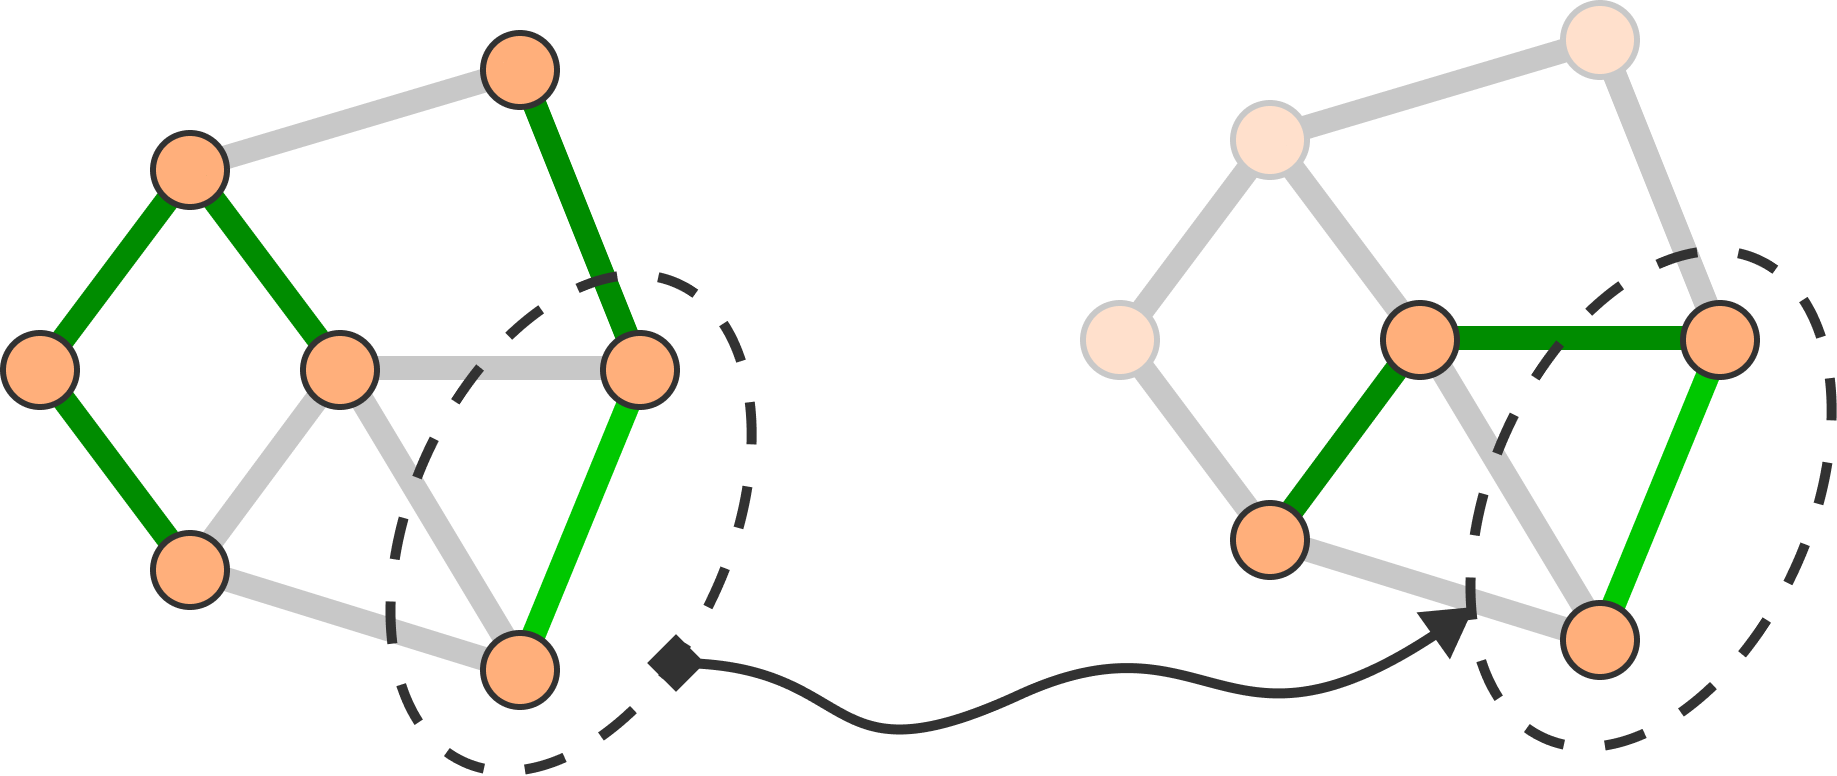
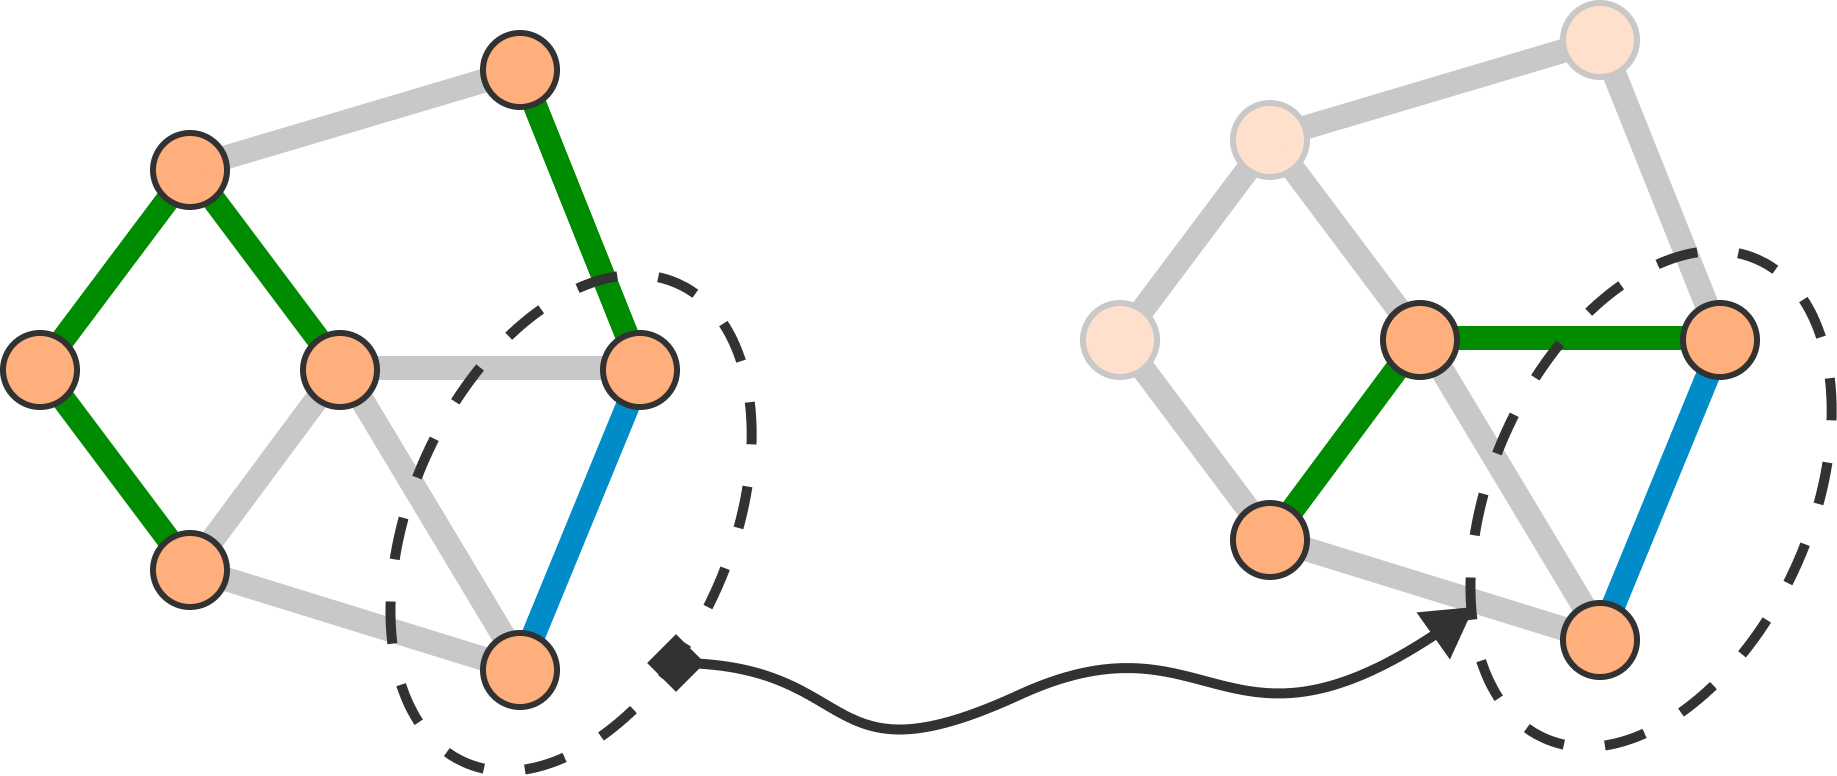
Clarified denser sections; added pigeonhole diagram

Changed region(s): [[0.2793, 0.5258, 0.3723, 0.8351], [0.8688, 0.4639, 0.9309, 0.7732]]

diff --git a/_sass/custom.scss b/_sass/custom.scss
@@ -106,7 +106,7 @@ figure {
         font-size: 12px;
 
         > .centered-figcaption {
-            width: 60%;
+            width: 70%;
             margin: auto;
         }
     }

diff --git a/_posts/2022-03-23-greedoids-p1.md b/_posts/2022-03-23-greedoids-p1.md
@@ -14,14 +14,14 @@ For certain problems, this family of algorithms is highly effective, producing o
 Other times, using a greedy algorithm can return woefully incorrect results.
 So, when can a greedy algorithm be used to find the optimal solution?
 
-Greedoids, a topic in combinatorics, shed light on this question.
+Greedoids, a mathematical construct in combinatorics, help shed light on this question.
 In fact, it's right there in the name!
 *Greed-* as in "greedy algorithm" and *-oid* as in "resembling" or "like".
 Formulated 1981 in by Bernhard Korte and László Lovász, greedoids provide a useful framework for thinking about optimization.
-They make explicit common properties that allow problems to be optimized by the simple "greedy choice" procedure.
+They make explicit the common properties that allow problems to be optimized by the simple "greedy choice" procedure.
 
 In this post, the concept of a greedoid will be introduced and the intuition behind it will be developed.
-To that end, we will work backwards from a greedy algorithm (GA) and build up to an accessible definition of a greedoid.
+To that end, we will work backwards from a greedy algorithm and build up to an accessible definition of a greedoid.
 
 ## Kruskal's algorithm
 Kruskal's algorithm, which solves the minimum spanning tree (MST) problem, makes for a good case study.
@@ -29,7 +29,7 @@ In this problem, each edge in a connected graph is given a weight and we are tas
 A good introduction to MSTs can be found [here](https://courses.grainger.illinois.edu/cs225/fa2021/resources/mst/).
 
 At a high level, Kruskal's algorithm starts with an empty list and repeatedly appends the cheapest edge that doesn't create a cycle.
-This is translated into an (incomplete and rather slow) python implementation below:
+The core of the algorithm is translated into Python pseudo-code below:
 
 ```python
 def kruskal(graph, weight_fn):
@@ -44,24 +44,27 @@ def kruskal(graph, weight_fn):
 What can be drawn from this?
 One observation is that the edges of `graph` make up the search space of our problem; this establishes a domain for our optimization.
 
-A second is that, despite its name, the variable `solution` only makes up an MST (a proper solution for this problem) when it is being returned.
+A second observation is that, despite its name, the variable `solution` only makes up an MST (a proper solution for this problem) when it is being returned.
 At every other point along the way, it is only a "partial solution".
-Further remarks about these partial solutions can be made:
+Additional observations about these partial solutions can be made:
 
-* The empty list is a partial solution.
-* Every partial solution is a [forest](https://en.wikipedia.org/wiki/Tree_(graph_theory)#Forest), guaranteed by the `not contains_cycle` condition.
+* The initial condition `solution = []` means that the empty set is a partial solution.
+* The  `not contains_cycle` condition ensures that every partial solution is in fact a forest.
 
-So, the solution is an MST while the partial solutions are the collection of all sub-forests of `graph`.
+A [forest](https://en.wikipedia.org/wiki/Tree_(graph_theory)#Forest) is a graph that contains no cycles.
+The name comes from the fact that a forest looks like many disconnected trees.
+These separate trees are called the [components](https://en.wikipedia.org/wiki/Component_(graph_theory)) of the forest.
+
+From these observations, we have that the solution is an MST while the partial solutions are the collection of all sub-forests of `graph`.
 In a more general sense, a solution is what the algorithm is optimizing for, while the partial solutions are the snapshots at each iteration.
 
 ## The building blocks
 These ideas of search space, solutions, and partial solutions are the building blocks of a greedoid.
-
 In greedoid theory, the search space is referred to as the *ground set*,
 solutions are called *bases* (as in basis),
 and the collection of both the solutions and partial solutions are known as the *feasible sets*.
 
-Of note is that, for the above observations, there was no particular solution in mind.
+Of note is that the above observations are not specific to just the optimal solution.
 This means that the notion of partial solutions extends to all possible solutions for the problem.
 Indeed, the feasible sets of a greedoid capture all such solutions and partial solutions.
 
@@ -86,13 +89,13 @@ Notice how the feasible sets naturally contain all bases.
 
 Having a ground set and feasible sets alone does not make a problem a greedoid. 
 Indeed, most problems can be be put into the framework of ground set (domain) and feasible sets (constraints).
-But, these building blocks provide a language to describe the properties needed to ensure the optimality of a GA.
+But, these building blocks provide a language to describe the properties needed to ensure the optimality of a greedy algorithm.
 
 ## The defining properties
 Uncovering these requisite properties is no small feat.
 One has to:
 
-* Identify properties that capture the features a GA exploits.
+* Identify properties that capture the features a greedy algorithm exploits.
 * Determine if these properties generalize well.
 * Ensure that these properties can be formalized (in a manageable way), so proofs and assurances can be made.
 
@@ -101,12 +104,11 @@ They noticed two properties, *accessibility* and *exchangeability*, that effecti
 
 ### Accessible set systems
 Consider the following procedure in the context of the MST problem:
-<!-- More here -->
 
 1. Hand pick an MST within `graph`.
 2. Record the edges of this MST into the set `hand_picked`.
-3. Set `hp_weight_fn` to be zero if an edge is in `hand_picked` and one if not.
-4. Run Kruskal's algorithm with inputs `graph` and `hp_weight_fn`.
+3. For each edge, assign `hp_weight_fn` to zero if in `hand_picked` and one if not.
+4. Run Kruskal's algorithm with inputs `graph` and the function `hp_weight_fn`.
 
 Under these circumstances, Kruskal's algorithm would return back exactly the set `hand_picked`.
 Because `hand_picked` is arbitrary, any MST could be chosen to construct this set.
@@ -131,29 +133,34 @@ This is the essence of accessibility.
 </figcaption>
 </figure>
 
-To illustrate how this is formalized, consider a feasible set `target`.
+To illustrate how this is formalized, consider the partial solutions leading up to `hand_picked`.
+For Kruskal's algorithm to arrive at `hand_picked`, is must have added an edge to a forest one with one less edge.
+The same applies to this smaller forest.
 
-For a GA to arrive at `target`, it must add an edge to a feasible set one element shorter.
-The same applies to this smaller set.
-Repeating this, a chain of smaller and smaller feasible sets is created.
-Eventually, the empty set will be met.
+Repeating this yields a chain of smaller and smaller forests.
+Eventually, the empty set (the starting point for Kruskal's algorithm) will be met.
+This chain can be traversed in reverse order such that, from the empty set, we can iteratively append edges to arrive at `hand_picked`.
 
-This chain can be traversed in reverse order such that, from the empty set, we arrive at `target`.
-This is what is meant by "reaching" a feasible set.
+If we swap "forest" for "feasible set" in the above, we get a similar chain that starts from the empty set and ends at an arbitrary feasible set.
+This chain can be similarly traversed; this is what is meant by "reaching" a feasible set.
 
 Formalizing the existence of this chain yields the following definition:
 a collection of feasible sets is an *accessible set system* if every feasible set contains a feasible set one element smaller.
 
 ### The exchange property
 This brings us to the *exchange property*.
-Here the concern is another requirement of a GA: a basis must always be returned.
-That is, the greedy choice must never lead to a dead-end.
+Here the concern is another requirement of a greedy algorithm: a basis must always be returned.
+For example, a greedy algorithm for the MST problem must always return a spanning tree (dropping the "minimal" requirement for the moment).
+Equivalently, the greedy choice must never lead to a dead-end.
 
-A dead-end occurs when no elements in the search space can be added to a feasible set.
-So, the opposite of a dead-end is the ability to append to feasible sets.
+<!-- TODO: Improve dead end explanation -->
+A dead-end occurs when an algorithm is iteratively constructing a basis, 
+but reaches a non-maximal feasible set and cannot move forward.
+That is, when no elements in the search space can be appended to make a larger feasible set.
+
+So, the opposite of a dead-end is the ability to append to non-maximal feasible sets.
 Because bases are maximal feasible sets, growing feasible sets always ends up at a basis. 
-
-This reasoning allows us to reduce the requirement "a basis must always be returned" to "we must always be able to append to a feasible set".
+This reasoning allows us to reduce the requirement "a basis must always be returned" to "we must always be able to append to non-maximal feasible sets".
 
 This reduced statement is still too hazy to be formal.
 To resolve this, Korte and Lovász shifted perspective:
@@ -161,11 +168,12 @@ instead of appending to a single feasible set,
 consider the interplay of a feasible set with all others.
 
 <figure>
-<img src="/assets/images/greedoids/mst-exchange.png" style="width:60%"/>
+<img src="/assets/images/greedoids/mst-pigeonhole.png" style="width:60%"/>
 <figcaption>
     <div class="centered-figcaption">
-        A feasible set (right) in the MST problem
-        receiving an edge (light green) from a larger feasible set (left) that preserves feasibility. 
+        The pigeonhole principle applied to two forests, one smaller (left) and one larger (right), with the same node sets.
+        The components of the smaller are superimposed on the larger.
+        Notice the edge in the larger that spans the components of smaller.
     </div>
 </figcaption>
 </figure>
@@ -175,14 +183,14 @@ Let `smaller` and `larger` be forests with the latter containing more edges.
 The goal is to find an edge in `larger` that can be appended to `smaller`.
 
 Comparing the nodes in each set, there are two cases:
-* The set of nodes in `larger` has a node not in `smaller`.
-* All nodes of `larger` are also in `smaller`.
+* The set of nodes in `larger` has at least one node not in `smaller`.
+* All nodes of `smaller` are also in `larger`.
 
 In the former case, any edge containing a node not in `smaller` can be chosen.
 This would create a branch off of `smaller` into new territory (the new node).
 
-In the latter case, consider the [components](https://en.wikipedia.org/wiki/Component_(graph_theory)) of each forest.
-Because `larger` has more edges, it must has fewer components.
+In the latter case, consider the components of each forest.
+Because `larger` has more edges, it must have fewer components.
 If not, then one component would contain a cycle.
 
 By the [pigeonhole principle](https://www.cantorsparadise.com/the-pigeonhole-principle-e4c637940619),
@@ -190,6 +198,16 @@ there must be two or more nodes that are in different components of `smaller`,
 but are in the same component of `larger`.
 Along the path between these nodes, there is an edge that spans components of `smaller`.
 Because it spans components, this edge can be added without creating a cycle. 
+
+<figure>
+<img src="/assets/images/greedoids/mst-exchange.png" style="width:60%"/>
+<figcaption>
+    <div class="centered-figcaption">
+        A feasible set (right) in the MST problem
+        receiving an edge (blue) from a larger feasible set (left) that preserves feasibility. 
+    </div>
+</figcaption>
+</figure>
 
 This shows that for any two forests, one smaller and one larger, there is an edge of the larger that can be appended to the smaller without creating a cycle.
 
@@ -207,20 +225,20 @@ A greedoid over a ground set is a collection of feasible sets that satisfy the f
 1. Every (non-empty) feasible set contains a feasible set one element smaller.
 2. For any two feasible sets, one smaller and one larger, there is an element of the larger that can be appended to the smaller that preserves feasibility.
 
-In the context of a GA, what makes a greedoid interesting is that these properties ensure (respectively) that:
+In the context of a greedy algorithm, what makes a greedoid interesting is that these properties ensure (respectively) that:
 
 1. Every solution can be reached.
 2. A solution is always returned.
 
 And these make a greedy algorithm work.
 Moreover, the properties of a greedoid are incredibly general.
-A considerable number of problems solved by GAs, from the MST, to Dijkstra's algorithm, to even Gaussian elimination, can be put into the context of greedoids.
+A considerable number of problems solved by greedy algorithms, from the MST, to Dijkstra's algorithm, to even Gaussian elimination, can be put into the context of greedoids.
 
 However, there still are problems solved by greedy algorithms that do not have a greedoid representation.
-One conspicuous omission is Huffman coding.
+One well known example is Huffman coding.
 
 In the next post, the capabilities and limitations of greedoids will be explored further.
-To that end, the GA for greedoids will be given and used to develop an algorithm to solve the scheduling problem.
+To that end, the greedy algorithm for greedoids will be given and used to develop an algorithm to solve the scheduling problem.
 The aim is to give a picture of when one can use greedoids and why one would want to.
 
 Thanks for reading!

diff --git a/_drafts/greedoids-p2.md b/_drafts/greedoids-p2.md
@@ -1,0 +1,53 @@
+---
+layout: post
+title:  "Greedoids, Part 2: Putting into practice"
+date:   2022-03-24
+author: Garrett Tetrault
+categories: greedoid greedy algorithm
+excerpt_separator: <!--more-->
+katex: true
+comments: true
+---
+
+<!-- 
+Outline
+
+start with example copying Kruskal's algorithm
+
+show why this is naive (only linear problems)
+
+Give an example of a problem that uses nonlinear problems
+
+Talk a bit more on what weight functions are allowable (can be hand-waving here)
+
+Go into the scheduling problem example
+ -->
+
+In the last post, we explored what a greedoid was
+
+An important distinction arises: greedoids identify the structure 
+
+We can easily copy the structure of Kruskal's algorithm from the previous post to form the algorithm:
+
+```python
+def greedy(greedoid, weight_fn):
+    solution = []
+    for element in sorted(greedoid.search_space, key=weight_fn):
+        candidate = solution + element
+        if candidate in greedoid.feasible_sets:
+            solution = candidate
+    return solution
+```
+
+You may not have noticed but the weight function was hardly mentioned in the previous post.
+
+But this can only account for *linear* weight functions - that is where each element has a weight and we want to minimize (or maximize) them sum.
+
+This is the case for Kurskal's algorithm.
+What if, instead, we wanted to find the MST that minimizes maximal [degree](https://en.wikipedia.org/wiki/Degree_(graph_theory))?
+This is known as the minimum degree spanning tree problem, one that is known to be NP-complete.
+So, while the MST can be viewed as a greedoid under both problems, the weight function is the prohibitive factor.
+
+minimizing `sum(weight_fn(e) for e in greedoid.search_space)`
+
+For what weight functions 
